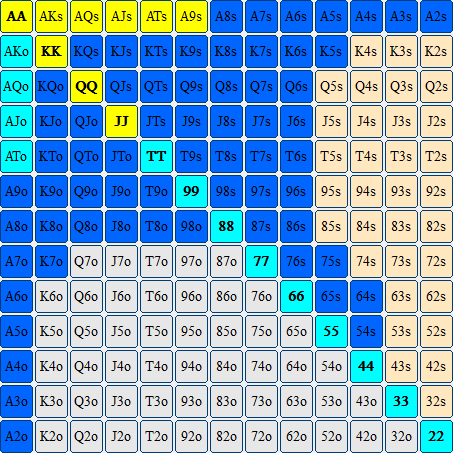
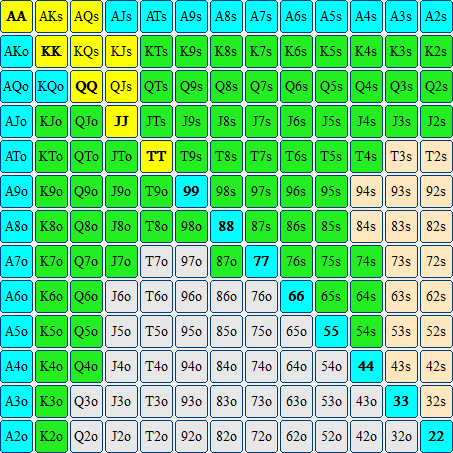
phase2

diff --git a/rangeselector.py b/rangeselector.py
@@ -7,30 +7,79 @@ cwd = os.getcwd()
 
 root = Tk() 
 
-#load 2 images for stamping
-tkimg = ImageTk.PhotoImage(Image.open(cwd + "\\spin_ranges\\test.png"))     # Test image
-tkimg2 = ImageTk.PhotoImage(Image.open(cwd + "\\spin_ranges\\test2.png"))    # Test image
+hu_img = ImageTk.PhotoImage(Image.open(cwd + "\\spin_ranges\\headsup.png"))
+pushfold_img = ImageTk.PhotoImage(Image.open(cwd + "\\spin_ranges\\pushfold.png"))
+BTN_open11_15_img = ImageTk.PhotoImage(Image.open(cwd + "\\spin_ranges\\BTN_open11_15.png"))
+BTN_open17_img = ImageTk.PhotoImage(Image.open(cwd + "\\spin_ranges\\BTN_open17.png"))
 
 # A Radiobutton to toggle between images
-v = IntVar()
+position = IntVar()
+bigblinds = IntVar()
+action = IntVar()
+
 def call():
     canvas.delete(ALL)
-    if v.get() == 1:
-        canvas.create_image((2, 2), image=tkimg, anchor=NW)
-    else:
-        canvas.create_image((2, 2), image=tkimg2, anchor=NW)
+    if bigblinds.get() == 10:
+        canvas.create_image((2, 2), image=pushfold_img, anchor=NW)
+        Label(root, text ="LB=push/call  Y=push/fold").grid(row=0, column=0, columnspan=5, sticky=S)
+    else: 
+        if position.get() == 4:
+            canvas.create_image((2, 2), image=hu_img, anchor=NW)
+            Label(root, text ="R=raise  G=call  B=fold").grid(row=0, column=0, columnspan=5, sticky=S)
+        elif position.get() == 1:
+            if bigblinds.get() == 11:
+                canvas.create_image((2, 2), image=BTN_open11_15_img, anchor=NW)
+                Label(root, text ="R=raise  G=call  B=fold").grid(row=0, column=0, columnspan=5, sticky=S)
+            elif bigblinds.get() == 17:
+                canvas.create_image((2, 2), image=BTN_open17_img, anchor=NW)
+                Label(root, text ="R=raise  G=call  B=fold").grid(row=0, column=0, columnspan=5, sticky=S)
+            else:
+                canvas.create_image((2, 2), image=pushfold_img, anchor=NW)
+                Label(root, text ="LB=push/call  Y=push/fold").grid(row=0, column=0, columnspan=5, sticky=S)
 
-Label(root, text ="Select an image to place.").grid(row=1, column=0, columnspan=5, sticky=S)
-R1=Radiobutton(root, text="range 1", variable=v, value=1, command=call)
-R1.grid(row=2, column=0, sticky=N+E)
-R1.select()
-R2=Radiobutton(root, text="range 2", variable=v, value=2, command=call)
-R2.grid(row=2, column=1, sticky=N+E)
+#Description
+Label(root, text ="R=raise  G=call  B=fold").grid(row=0, column=0, columnspan=5, sticky=S)
+
+#Position selection
+R1=Radiobutton(root, text="BTN", variable=position, value=1, command=call)
+R1.grid(row=6, column=0, sticky=N+E)
+R2=Radiobutton(root, text="SB", variable=position, value=2, command=call)
+R2.grid(row=6, column=1, sticky=N+E)
+R3=Radiobutton(root, text="BB", variable=position, value=3, command=call)
+R3.grid(row=6, column=2, sticky=N+E)
+R3=Radiobutton(root, text="HU", variable=position, value=4, command=call)
+R3.grid(row=6, column=3, sticky=N+E)
+R3.select()
+
+#Big blinds selection
+R4=Radiobutton(root, text="10", variable=bigblinds, value=10, command=call)
+R4.grid(row=7, column=0, sticky=N+E)
+R5=Radiobutton(root, text="11-16", variable=bigblinds, value=11, command=call)
+R5.grid(row=7, column=1, sticky=N+E)
+R6=Radiobutton(root, text="17+", variable=bigblinds, value=17, command=call)
+R6.grid(row=7, column=2, sticky=N+E)
+R6.select()
+
+#Action selection
+R7=Radiobutton(root, text="btn & sb limp", variable=action, value=1, command=call)
+R7.grid(row=8, column=0, sticky=N+E)
+R8=Radiobutton(root, text="btn or sb open", variable=action, value=2, command=call)
+R8.grid(row=9, column=0, sticky=N+E)
+R9=Radiobutton(root, text="sb limp", variable=action, value=3, command=call)
+R9.grid(row=10, column=0, sticky=N+E)
+R10=Radiobutton(root, text="sb open", variable=action, value=4, command=call)
+R10.grid(row=11, column=0, sticky=N+E)
+R11=Radiobutton(root, text="btn folds", variable=action, value=5, command=call)
+R11.grid(row=12, column=0, sticky=N+E)
+R12=Radiobutton(root, text="btn limp", variable=action, value=6, command=call)
+R12.grid(row=13, column=0, sticky=N+E)
+R13=Radiobutton(root, text="btn open", variable=action, value=7, command=call)
+R13.grid(row=14, column=0, sticky=N+E)
 
 # A canvas for mouse events and image drawing
 canvas = Canvas(root, height=500, width=500,)
-canvas.grid(column=5, row=0, rowspan=4, sticky=W)
-canvas.create_image((2, 2), image=tkimg, anchor=NW)
+canvas.grid(column=5, row=0, rowspan=6, sticky=W)
+canvas.create_image((2, 2), image=hu_img, anchor=NW)
 
 # Enter event loop
 root.mainloop()
